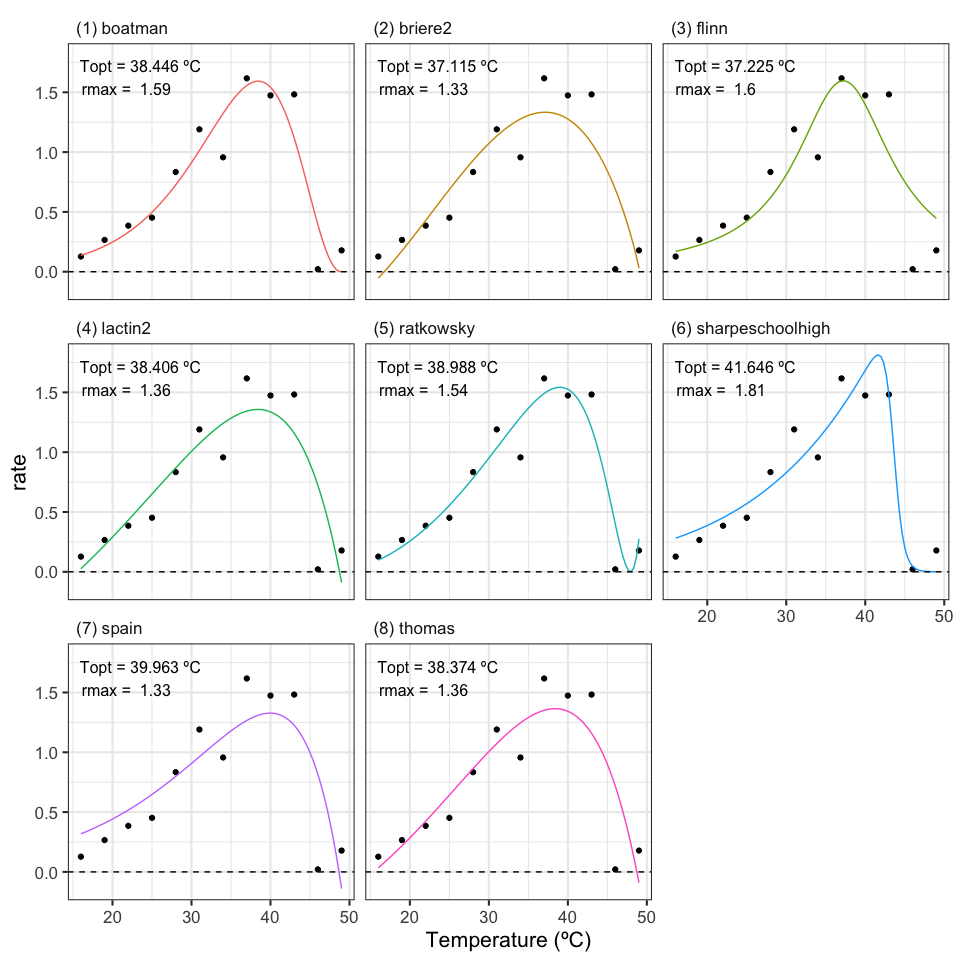
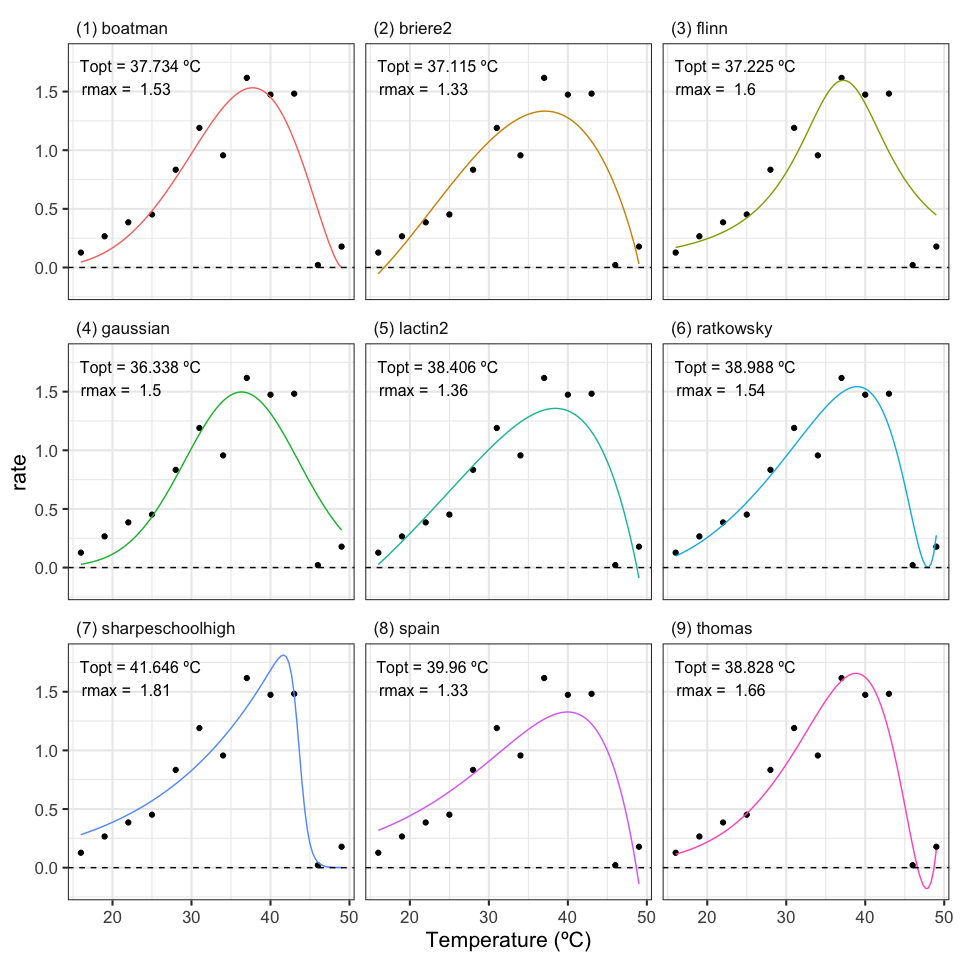
Define gaussian function

diff --git a/README.md b/README.md
@@ -116,14 +116,20 @@ d_models <- group_by(d_1, curve_id, growth.temp, process, flux) %>%
             boatman = map(data, ~nls_multstart(rate ~ boatman_2017(temp = temp, rmax, tmin, tmax, a, b),
                                            data = .x,
                                            iter = 500,
-                                           start_lower = c(rmax = 0, tmin = 0, tmax = 20, a = -1, b = -1),
-                                           start_upper = c(rmax = 2, tmin = 20, tmax = 50, a = 1, b = 1),
+                                           start_lower = c(rmax = 0, tmin = 0, tmax = 35, a = -1, b = -1),
+                                           start_upper = c(rmax = 2, tmin = 10, tmax = 50, a = 1, b = 1),
                                            supp_errors = 'Y')),
-         flinn = map(data, ~nls_multstart(rate ~ flinn_1991(temp = temp, a, b, c),
+            flinn = map(data, ~nls_multstart(rate ~ flinn_1991(temp = temp, a, b, c),
                                            data = .x,
                                            iter = 500,
                                            start_lower = c(a = 0, b = -2, c = -1),
                                            start_upper = c(a = 30, b = 2, c = 1),
+                                           supp_errors = 'Y')),
+            gaussian = map(data, ~nls_multstart(rate ~ gaussian_1987(temp = temp, rmax, topt, a),
+                                           data = .x,
+                                           iter = 500,
+                                           start_lower = c(rmax = 0, topt = 20, a = 0),
+                                           start_upper = c(rmax = 2, topt = 40, a = 30),
                                            supp_errors = 'Y')))
 ```
 
